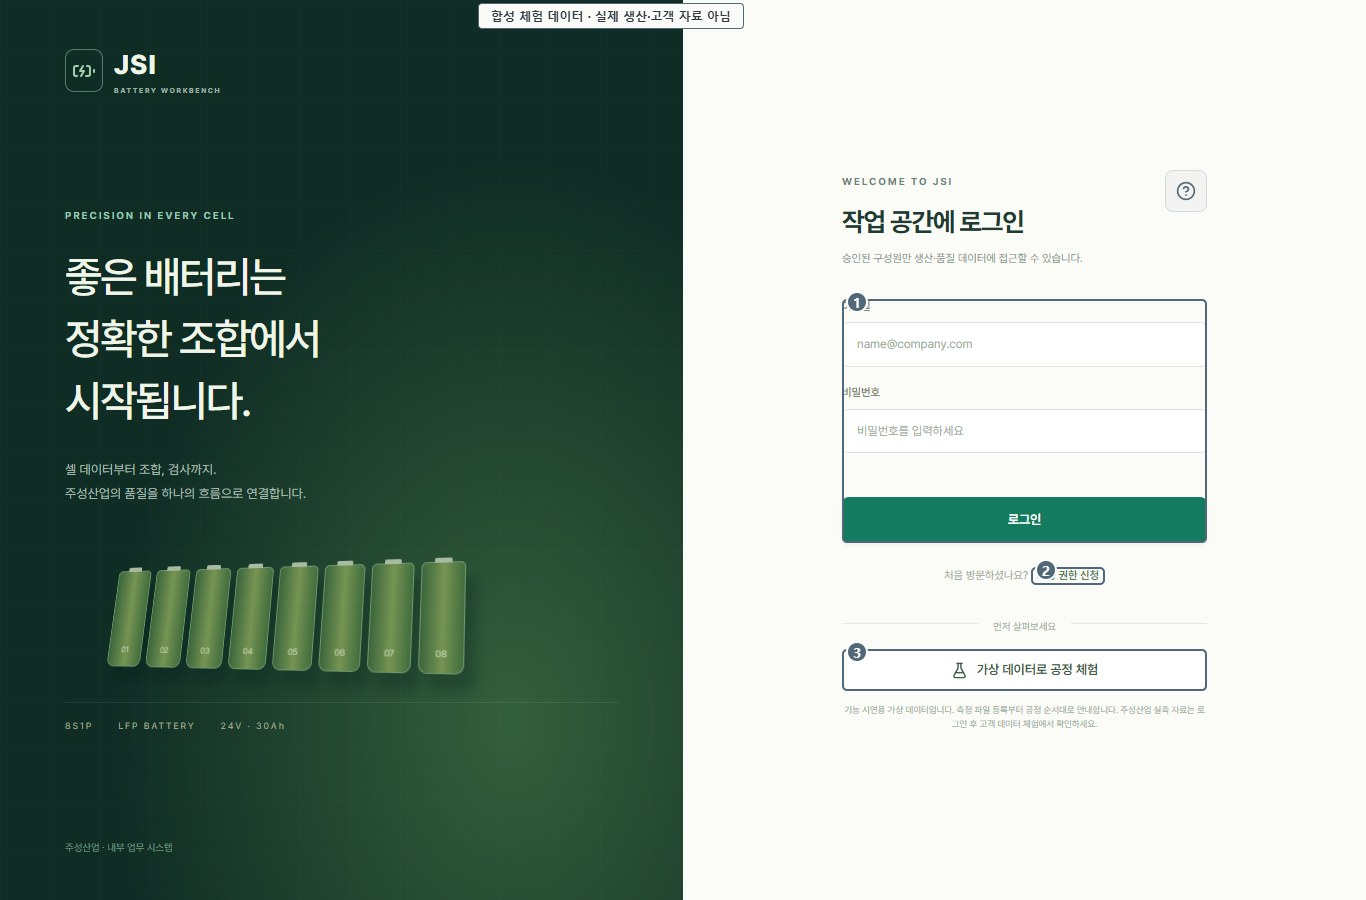
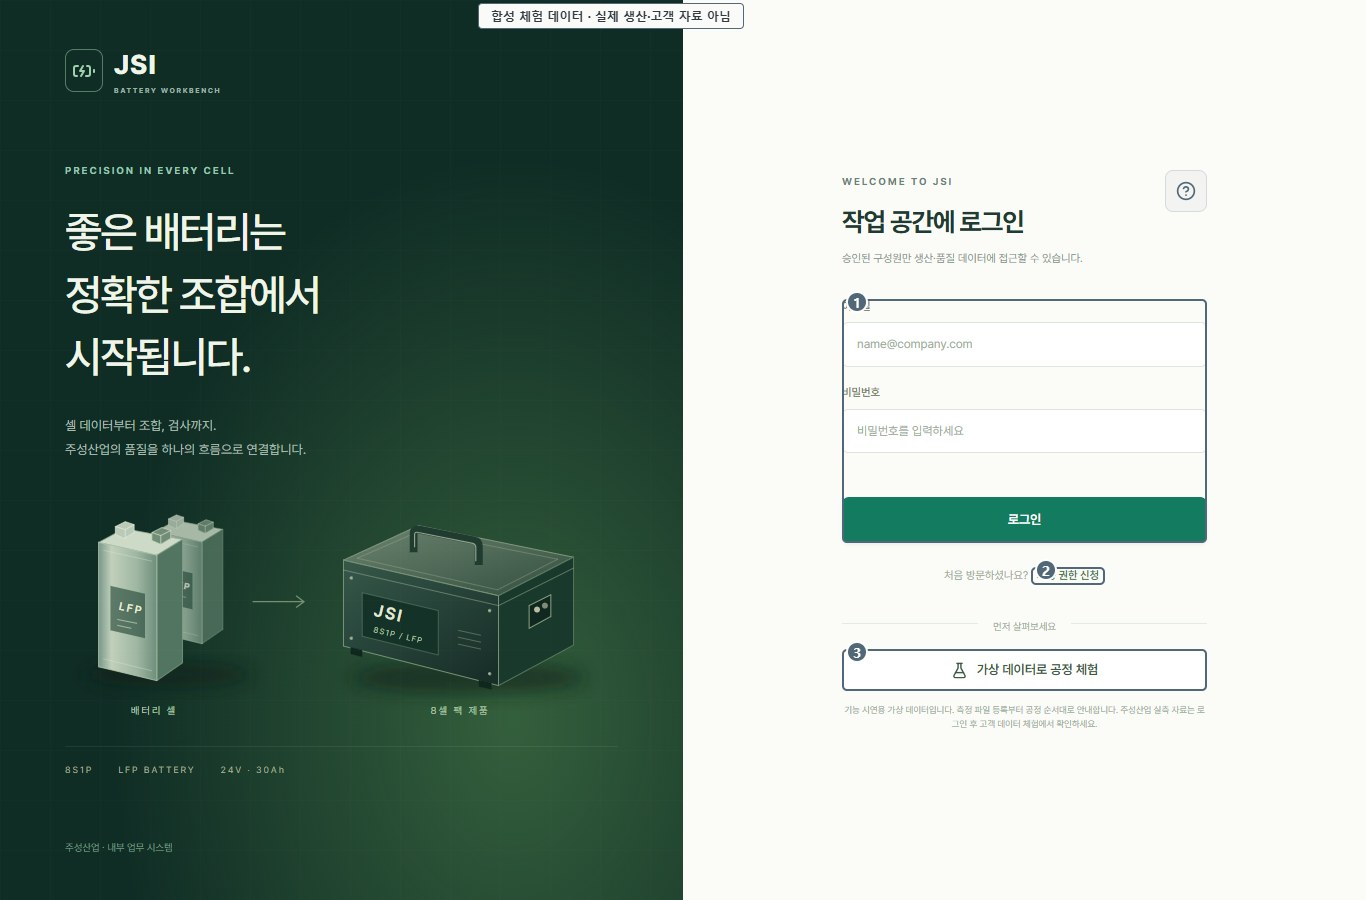
Replace title batteries with cell and assembled pack artwork

Changed region(s): [[0.0307, 0.1867, 0.4305, 0.8089], [0.3075, 0.7778, 0.3382, 0.8089], [0.0922, 0.84, 0.123, 0.8711]]

diff --git a/src/Auth.tsx b/src/Auth.tsx
@@ -1,3 +1,4 @@
+import CellPackArtwork from './CellPackArtwork';
 import UserManual from './manual/UserManual';
 import { useState, type FormEvent } from 'react';
 import { BatteryCharging, LoaderCircle, FlaskConical } from 'lucide-react';
@@ -20,5 +21,5 @@ export default function Auth({ onDemo }: {
     finally {
         setBusy(false);
     } }
-    return <main className="auth-page"><div className="auth-story"><a className="brand" href="#"><span className="brand-icon"><BatteryCharging /></span><span>JSI<span className="brand-sub">BATTERY WORKBENCH</span></span></a><div className="auth-copy"><span className="eyebrow light">PRECISION IN EVERY CELL</span><h1>좋은 배터리는<br />정확한 조합에서<br />시작됩니다.</h1><p>셀 데이터부터 조합, 검사까지.<br />주성산업의 품질을 하나의 흐름으로 연결합니다.</p><div className="battery-art" aria-hidden="true">{Array.from({ length: 8 }, (_, i) => <div className="battery-cell" key={i}><i /><span>0{i + 1}</span></div>)}</div><div className="auth-spec"><span>8S1P</span><span>LFP BATTERY</span><span>24V · 30Ah</span></div></div><small>주성산업 · 내부 업무 시스템</small></div><div className="auth-form-wrap"><div className="auth-form"><span className="eyebrow">WELCOME TO JSI</span><h2>{signup ? '사용 권한 신청' : '작업 공간에 로그인'}</h2><p className="muted">{signup ? '관리자가 신청을 확인한 뒤 이용 권한을 부여합니다.' : '승인된 구성원만 생산·품질 데이터에 접근할 수 있습니다.'}</p><form onSubmit={submit}>{signup && <label>이름<input name="name" required maxLength={80} placeholder="이름을 입력하세요" autoComplete="name"/></label>}<label>이메일<input name="email" type="email" required placeholder="name@company.com" autoComplete="email"/></label><label>비밀번호<input name="password" type="password" required minLength={8} placeholder="비밀번호를 입력하세요" autoComplete={signup ? 'new-password' : 'current-password'}/></label>{message && <div role="status" className="notice">{message}</div>}<button className="primary full" disabled={busy}>{busy ? <LoaderCircle className="spin icon-18"/> : null}{signup ? '가입 신청' : '로그인'}</button></form><p className="auth-switch">{signup ? '이미 계정이 있으신가요?' : '처음 방문하셨나요?'} <button onClick={() => { setSignup(!signup); setMessage(''); }}>{signup ? '로그인' : '사용 권한 신청'}</button></p><div className="auth-divider"><span>먼저 살펴보세요</span></div><button className="secondary full" onClick={onDemo}><FlaskConical className="icon-17"/>가상 데이터로 공정 체험</button><small className="demo-note">기능 시연용 가상 데이터입니다. 측정 파일 등록부터 공정 순서대로 안내합니다. 주성산업 실측 자료는 로그인 후 고객 데이터 체험에서 확인하세요.</small></div></div><UserManual context="access"/></main>;
+    return <main className="auth-page"><div className="auth-story"><a className="brand" href="#"><span className="brand-icon"><BatteryCharging /></span><span>JSI<span className="brand-sub">BATTERY WORKBENCH</span></span></a><div className="auth-copy"><span className="eyebrow light">PRECISION IN EVERY CELL</span><h1>좋은 배터리는<br />정확한 조합에서<br />시작됩니다.</h1><p>셀 데이터부터 조합, 검사까지.<br />주성산업의 품질을 하나의 흐름으로 연결합니다.</p><CellPackArtwork/><div className="auth-spec"><span>8S1P</span><span>LFP BATTERY</span><span>24V · 30Ah</span></div></div><small>주성산업 · 내부 업무 시스템</small></div><div className="auth-form-wrap"><div className="auth-form"><span className="eyebrow">WELCOME TO JSI</span><h2>{signup ? '사용 권한 신청' : '작업 공간에 로그인'}</h2><p className="muted">{signup ? '관리자가 신청을 확인한 뒤 이용 권한을 부여합니다.' : '승인된 구성원만 생산·품질 데이터에 접근할 수 있습니다.'}</p><form onSubmit={submit}>{signup && <label>이름<input name="name" required maxLength={80} placeholder="이름을 입력하세요" autoComplete="name"/></label>}<label>이메일<input name="email" type="email" required placeholder="name@company.com" autoComplete="email"/></label><label>비밀번호<input name="password" type="password" required minLength={8} placeholder="비밀번호를 입력하세요" autoComplete={signup ? 'new-password' : 'current-password'}/></label>{message && <div role="status" className="notice">{message}</div>}<button className="primary full" disabled={busy}>{busy ? <LoaderCircle className="spin icon-18"/> : null}{signup ? '가입 신청' : '로그인'}</button></form><p className="auth-switch">{signup ? '이미 계정이 있으신가요?' : '처음 방문하셨나요?'} <button onClick={() => { setSignup(!signup); setMessage(''); }}>{signup ? '로그인' : '사용 권한 신청'}</button></p><div className="auth-divider"><span>먼저 살펴보세요</span></div><button className="secondary full" onClick={onDemo}><FlaskConical className="icon-17"/>가상 데이터로 공정 체험</button><small className="demo-note">기능 시연용 가상 데이터입니다. 측정 파일 등록부터 공정 순서대로 안내합니다. 주성산업 실측 자료는 로그인 후 고객 데이터 체험에서 확인하세요.</small></div></div><UserManual context="access"/></main>;
 }

diff --git a/src/CellPackArtwork.tsx b/src/CellPackArtwork.tsx
@@ -1,0 +1,46 @@
+/** Concept illustration: individual LFP cells and an enclosed eight-cell pack. */
+export default function CellPackArtwork(){
+ return <svg className="cell-pack-art" viewBox="0 0 560 230" role="img" aria-label="개별 배터리 셀에서 8셀 팩 제품으로 이어지는 모습">
+  <defs>
+   <linearGradient id="cell-metal" x2="1" y2="0"><stop stopColor="#77968b"/><stop offset=".22" stopColor="#c1d0ba"/><stop offset=".65" stopColor="#9fb7a3"/><stop offset="1" stopColor="#6e8e7c"/></linearGradient>
+   <linearGradient id="pack-front" x2=".8" y2="1"><stop stopColor="#36584a"/><stop offset="1" stopColor="#182f29"/></linearGradient>
+   <linearGradient id="pack-top" x2="1" y2="1"><stop stopColor="#6c8470"/><stop offset="1" stopColor="#344f40"/></linearGradient>
+   <filter id="product-shadow" x="-30%" y="-30%" width="170%" height="180%"><feGaussianBlur stdDeviation="9"/></filter>
+   <g id="prismatic-cell">
+    <path d="M0 20 26 6 85 17 59 33Z" fill="#ccdac7" stroke="#91aa92" strokeWidth=".7"/>
+    <path d="M59 33 85 17 85 142 59 160Z" fill="#527562" stroke="#86a18a" strokeWidth=".7"/>
+    <path d="M0 20 59 33 59 160 0 146Z" fill="url(#cell-metal)" stroke="#b6c9ac" strokeWidth=".8"/>
+    <path d="M5 28 54 39M5 138 54 150" stroke="#e1e9d6" strokeOpacity=".35"/>
+    <path d="M17 12v-8l10-5 9 3v8l-10 6Z" fill="#bacab9" stroke="#e0e8d4" strokeWidth=".7"/>
+    <path d="M54 18v-8l10-5 9 3v8l-10 6Z" fill="#718d78" stroke="#c3d3bc" strokeWidth=".7"/>
+    <path d="m17 4 10 3 9-5M27 7v9M54 10l9 3 10-5M63 13v9" fill="none" stroke="#edf0da" strokeOpacity=".6"/>
+    <path d="m12 64 35 8v45l-35-8Z" fill="#284a3a" fillOpacity=".65"/>
+    <text x="20" y="88" transform="rotate(12 20 88)" fill="#e5ebd6" fontSize="11" fontWeight="600" letterSpacing="2">LFP</text>
+    <path d="m19 98 20 4m-20 2 14 3" stroke="#a6bca1" strokeWidth="1"/>
+   </g>
+  </defs>
+  <ellipse cx="104" cy="182" rx="87" ry="13" fill="#071e18" opacity=".55" filter="url(#product-shadow)"/>
+  <ellipse cx="408" cy="185" rx="119" ry="16" fill="#071e18" opacity=".6" filter="url(#product-shadow)"/>
+  <use href="#prismatic-cell" transform="translate(91 21) scale(.81)" opacity=".8"/>
+  <use href="#prismatic-cell" transform="translate(34 28)"/>
+  <path d="M190 108h52m-8-6 8 6-8 6" fill="none" stroke="#a5ba96" strokeWidth="1.3" opacity=".65"/>
+  <g strokeLinejoin="round">
+   <path d="M282 66 358 31 515 63 439 102Z" fill="url(#pack-top)" stroke="#82967b"/>
+   <path d="M439 102 515 63 515 152 439 193Z" fill="#19392d" stroke="#58765c"/>
+   <path d="M282 66 439 102 439 193 282 153Z" fill="url(#pack-front)" stroke="#789276"/>
+   <path d="M282 76 439 112 515 74" fill="none" stroke="#a3b296" strokeOpacity=".5"/>
+   <path d="m296 64 62-27 141 28-61 31Z" fill="none" stroke="#a8b597" strokeOpacity=".35"/>
+   <path d="M353 58V39q0-5 6-4l55 11q5 1 5 6v19" fill="none" stroke="#203b30" strokeWidth="8"/>
+   <path d="M354 53V40q0-3 4-2l55 11q3 1 3 4v14" fill="none" stroke="#90a28a" strokeWidth="1.2"/>
+   <path d="m301 99 77 18v45l-77-19Z" fill="#153228" stroke="#617e65" strokeWidth=".6"/>
+   <text x="312" y="122" transform="rotate(13 312 122)" fill="#e4e9d6" fontSize="17" fontWeight="650" letterSpacing="2">JSI</text>
+   <text x="312" y="139" transform="rotate(13 312 139)" fill="#b7c6a9" fontSize="8" letterSpacing="1.3">8S1P / LFP</text>
+   <path d="m398 137 23 5m-23 2 23 5m-23 2 23 5" stroke="#82977c" strokeWidth="1" opacity=".55"/>
+   <path d="m470 112 22-11v22l-22 12Z" fill="#10281f" stroke="#8ba082"/>
+   <circle cx="478" cy="116" r="3" fill="#b8bca0"/><circle cx="486" cy="112" r="3" fill="#7d8d78"/>
+   {[ [290,84],[430,117],[290,145],[430,181] ].map(([x,y])=><circle key={x+','+y} cx={x} cy={y} r="1.6" fill="#9dac91"/>)}
+   <path d="m289 154 12 3v7l-12-3Zm130 33 13 3v7l-13-3Z" fill="#10271e"/>
+  </g>
+  <g fill="#b1c5ab" fontSize="10" letterSpacing="2"><text x="90" y="222" textAnchor="middle">배터리 셀</text><text x="400" y="222" textAnchor="middle">8셀 팩 제품</text></g>
+ </svg>;
+}

diff --git a/src/styles.css b/src/styles.css
@@ -1141,40 +1141,13 @@ textarea {
   color:var(--color-auth-story-small-color);
   font-size:var(--font-size-10)
 }
-.battery-art {
-  display:flex;
-  gap:var(--space-7);
-  margin-top:var(--space-40);
-  transform:perspective(600px) rotateY(-17deg) rotateX(12deg);
-  padding:var(--space-15) var(--space-5) var(--space-30)
-}
-.battery-cell {
-  height:110px;
-  flex:1;
-  max-width:43px;
-  border-radius:var(--radius-6) var(--radius-6) var(--radius-9) var(--radius-9);
-  border:1px solid var(--color-battery-cell-border);
-  background:linear-gradient(90deg,var(--color-battery-cell-background),var(--color-battery-cell-background-2) 52%,var(--color-battery-cell-background-3));
-  position:relative;
-  box-shadow:var(--shadow-battery-cell-box-shadow)
-}
-.battery-cell i {
-  position:absolute;
-  top:-5px;
-  left:30%;
-  width:40%;
-  height:5px;
-  background:var(--color-battery-cell-i-background);
-  border-radius:var(--radius-2) var(--radius-2) 0 0
-}
-.battery-cell span {
-  position:absolute;
-  bottom:12px;
-  left:0;
-  right:0;
-  text-align:center;
-  font-size:var(--font-size-9);
-  color:var(--color-battery-cell-span-color)
+.cell-pack-art {
+  display:block;
+  width:100%;
+  max-width:560px;
+  height:auto;
+  margin:32px 0 24px;
+  overflow:visible;
 }
 .auth-spec {
   display:flex;
